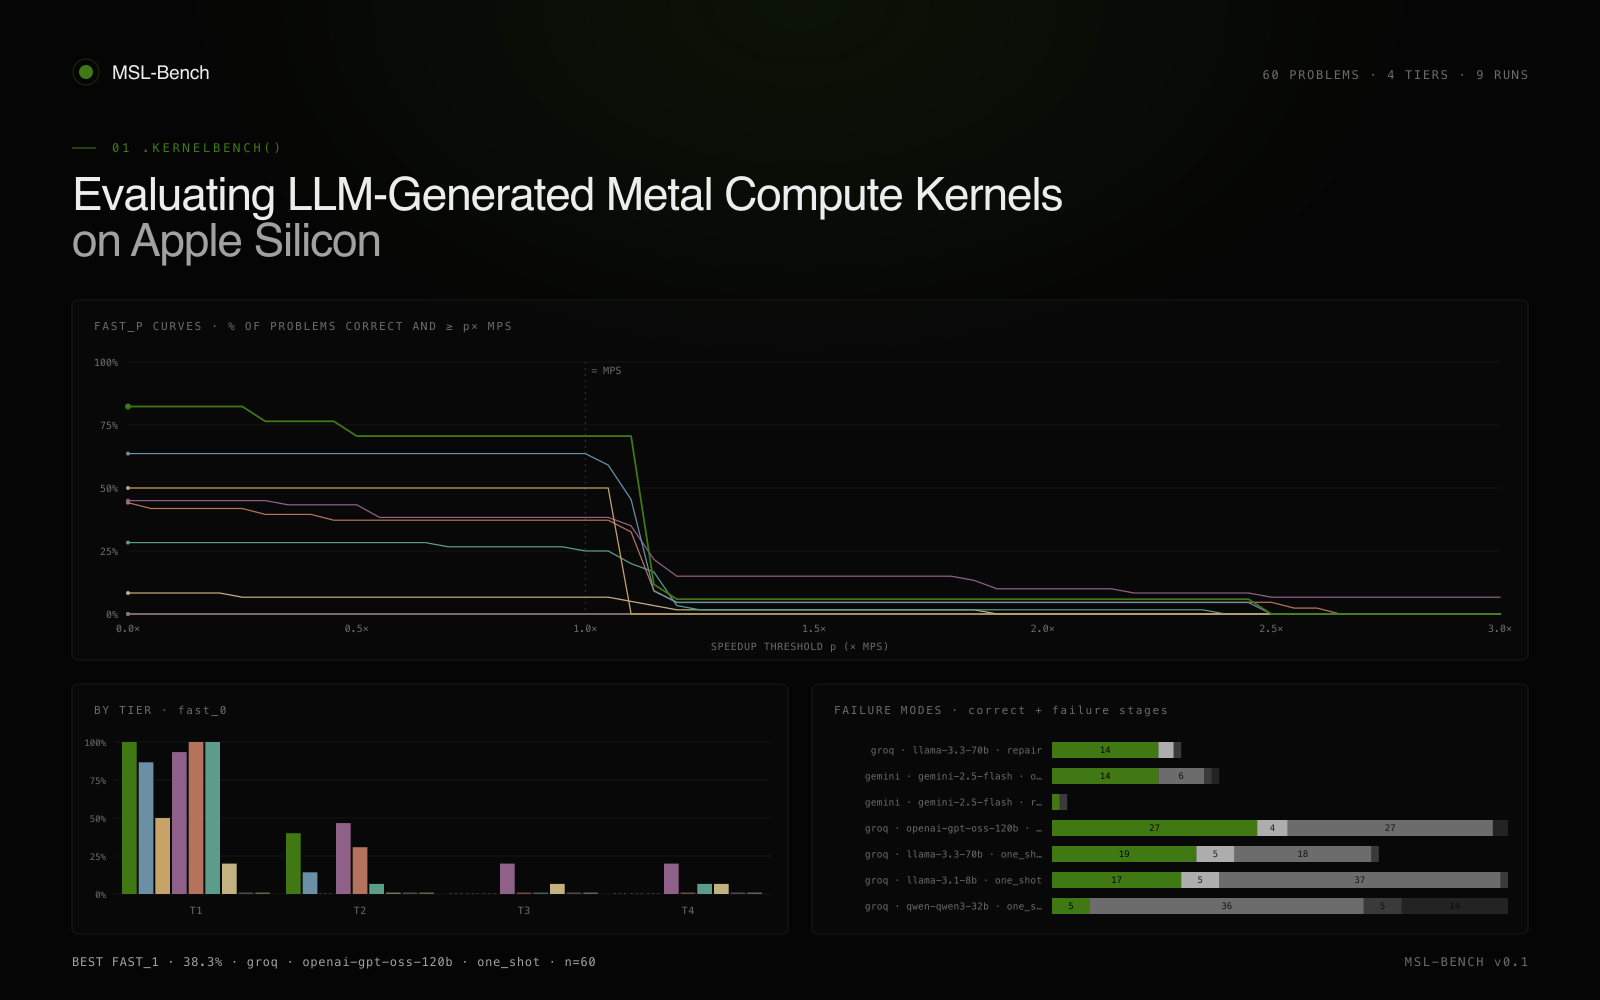
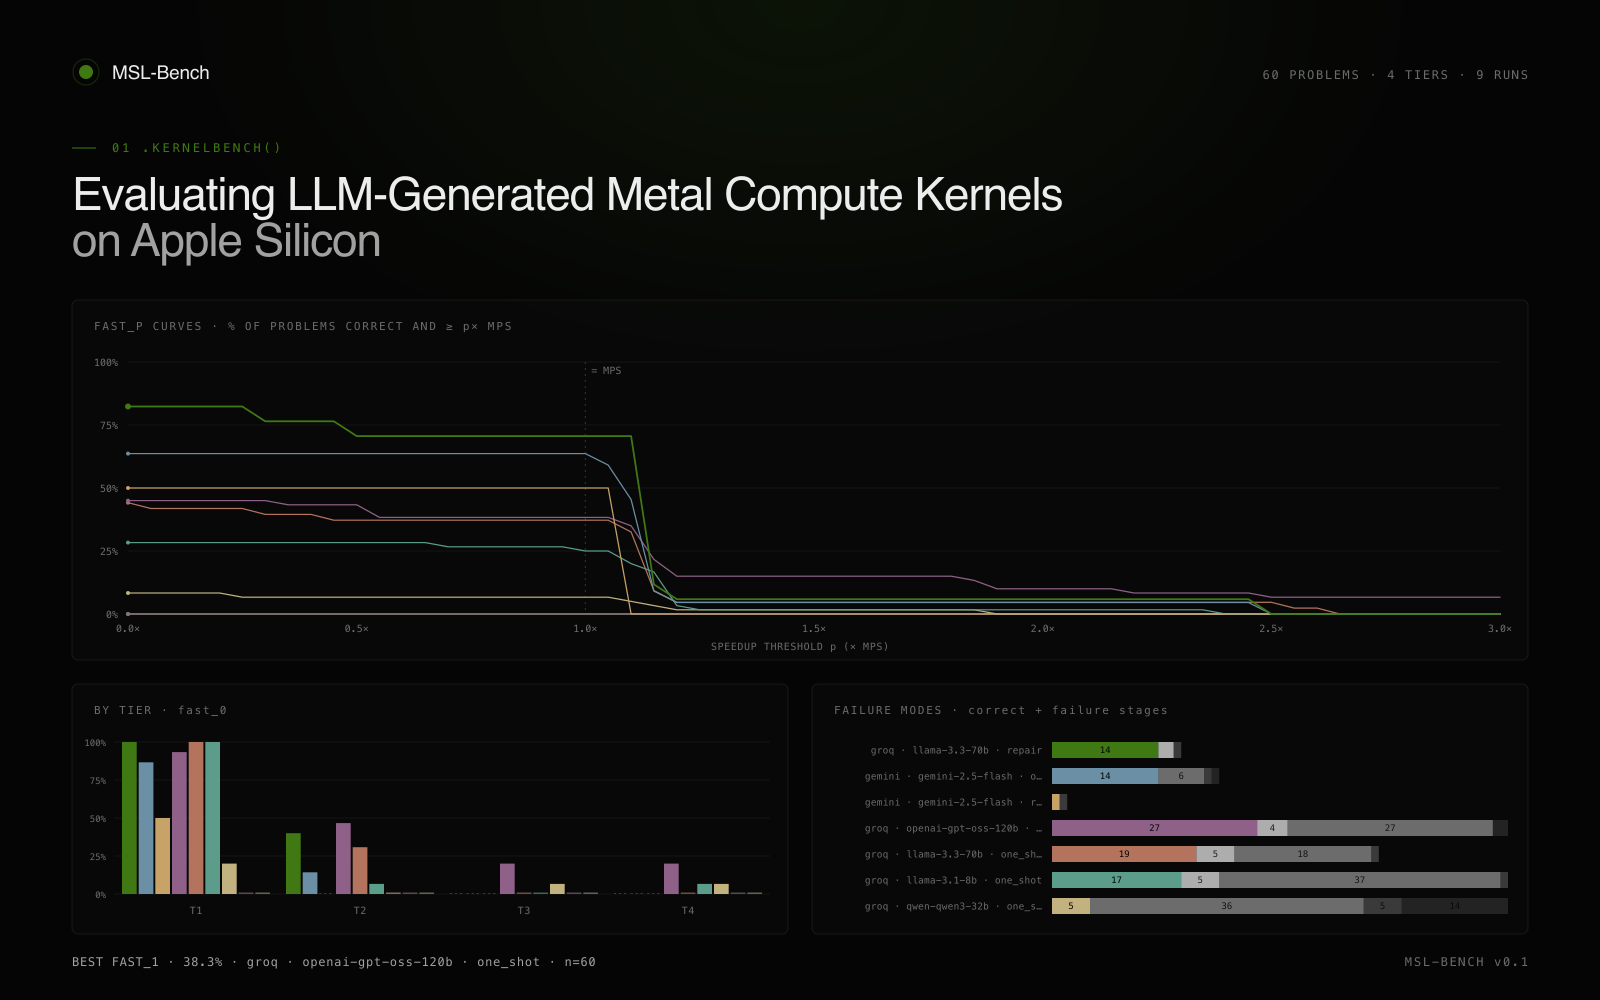
failure-modes correct segment uses each run's distinct color

Changed region(s): [[0.6562, 0.744, 0.7812, 0.93]]

diff --git a/demo/index.html b/demo/index.html
@@ -626,7 +626,7 @@
     <div class="prose">
       <p>Three angles on the same data. The <strong>fast_p curve</strong> is the money chart — it shows cumulative correctness across every speedup threshold. A curve staying high past the <code>= MPS</code> dashed line means the model isn't just writing correct kernels; it's writing ones that <strong>match or beat Apple's own implementation</strong>.</p>
       <p>The <strong>tier bars</strong> break correctness down by difficulty. <code>T1</code> is elementwise math like <code>out[i] = f(x[i])</code>. <code>T2</code> is reductions (row sums, softmax) — the first tier requiring cross-thread coordination via threadgroup memory and barriers. <code>T3</code> is tiled kernels (matmul, convolution). <code>T4</code> is fused ops (attention, layernorm, GLU) — the actual building blocks of modern LLMs. The <strong>T1 → T2 cliff</strong> is universal across every model tested: everyone handles elementwise Metal, everyone cliff-dives on cross-thread coordination.</p>
-      <p><strong>Failure modes</strong> shows where each run breaks — green is correct, grays are the ways things went wrong. A shorter green bar with lots of gray = the model reached for something ambitious but couldn't land it.</p>
+      <p><strong>Failure modes</strong> shows where each run breaks. The colored segment on each bar is that run's correct kernels — painted in the model's line color from the charts above. Grays are the ways things went wrong: light gray for verify-fail (compiled + ran but wrong numbers), progressively darker for compile-fail, runtime-fail, provider error, and no code emitted. A short colored bar with lots of gray = the model reached for something ambitious but couldn't land it.</p>
     </div>
     <div class="charts">
       <div class="chart">
@@ -5109,7 +5109,11 @@ function attachTierInteractions(id)  { attachInteractions(id, 'tier');  }
       const count = r.counts[stage];
       if (count === 0) return;
       const w = count * xScale;
-      svg += `<rect x="${x.toFixed(1)}" y="${y}" width="${w.toFixed(1)}" height="${barH}" fill="${STAGE_COLORS[stage]}"/>`;
+      // The "correct" segment gets the model's distinct color (matches the
+      // fast_p and tier charts). Failure modes stay grayscale so the eye
+      // reads "colored = worked, gray = failure mode."
+      const fill = stage === 'correct' ? PALETTE[ri] : STAGE_COLORS[stage];
+      svg += `<rect x="${x.toFixed(1)}" y="${y}" width="${w.toFixed(1)}" height="${barH}" fill="${fill}"/>`;
       if (w >= 18) {
         const textFill = stage === 'correct' ? '#050505' : 'rgba(5,5,5,0.85)';
         svg += `<text x="${(x + w / 2).toFixed(1)}" y="${y + barH / 2 + 3.5}" text-anchor="middle" style="fill:${textFill};font-family:'JetBrains Mono';font-size:10px;font-weight:500">${count}</text>`;
@@ -5119,9 +5123,11 @@ function attachTierInteractions(id)  { attachInteractions(id, 'tier');  }
   });
   svg += `</svg>`;
 
+  // Legend: "correct" swatch shown as accent green (representative), rest gray-scale
   let legend = `<div class="legend">`;
   STAGE_ORDER.forEach(s => {
-    legend += `<span class="item"><span class="swatch" style="background:${STAGE_COLORS[s]};width:12px;height:8px"></span>${s}</span>`;
+    const swatchColor = s === 'correct' ? ACCENT : STAGE_COLORS[s];
+    legend += `<span class="item"><span class="swatch" style="background:${swatchColor};width:12px;height:8px"></span>${s}</span>`;
   });
   legend += `</div>`;
 

diff --git a/scripts/make_thumbnail.py b/scripts/make_thumbnail.py
@@ -304,13 +304,16 @@ def render_stage_chart(x0, y0, w, h, curves):
             if count == 0:
                 continue
             bw = count * x_scale
+            # Correct segment: this run's distinct color (matches the fast_p
+            # curve and tier bars). Failure segments: grayscale.
+            fill_color = curve_color(ri) if stage == "correct" else STAGE_COLORS[stage]
             parts.append(f'<rect x="{bx:.1f}" y="{y:.1f}" width="{bw:.1f}" '
-                         f'height="{bar_h}" fill="{STAGE_COLORS[stage]}"/>')
+                         f'height="{bar_h}" fill="{fill_color}"/>')
             if bw >= 18:
-                fill = "#050505" if stage == "correct" else "rgba(5,5,5,0.85)"
+                text_fill = "#050505" if stage == "correct" else "rgba(5,5,5,0.85)"
                 parts.append(f'<text x="{bx+bw/2:.1f}" y="{y+bar_h/2+3:.1f}" '
                              f'text-anchor="middle" font-family="{FONT_MONO}" '
-                             f'font-size="9" fill="{fill}" font-weight="500">'
+                             f'font-size="9" fill="{text_fill}" font-weight="500">'
                              f'{count}</text>')
             bx += bw
     return "\n".join(parts)